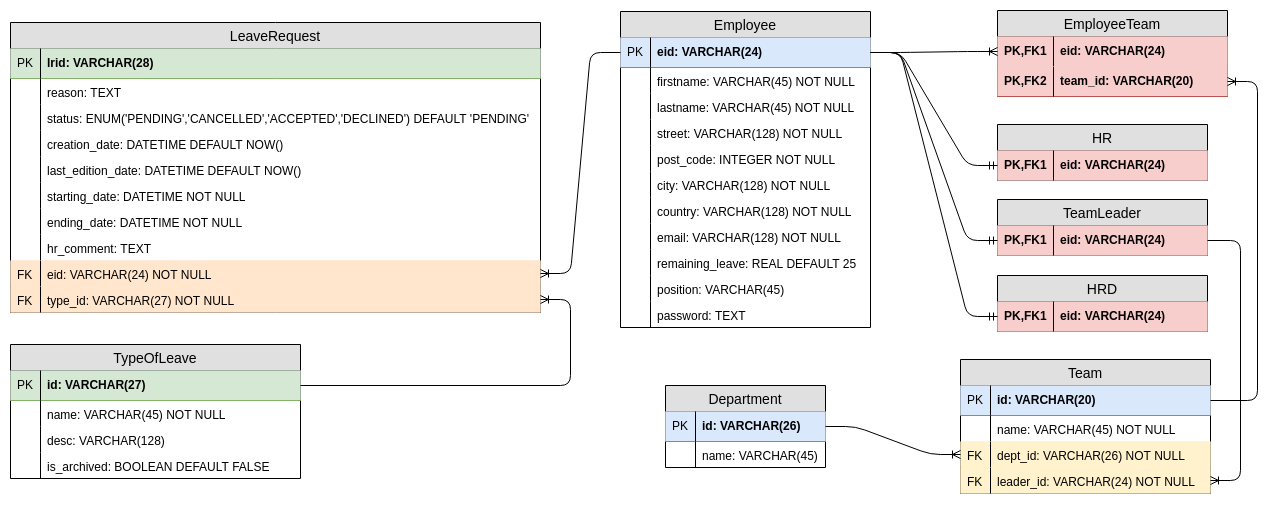
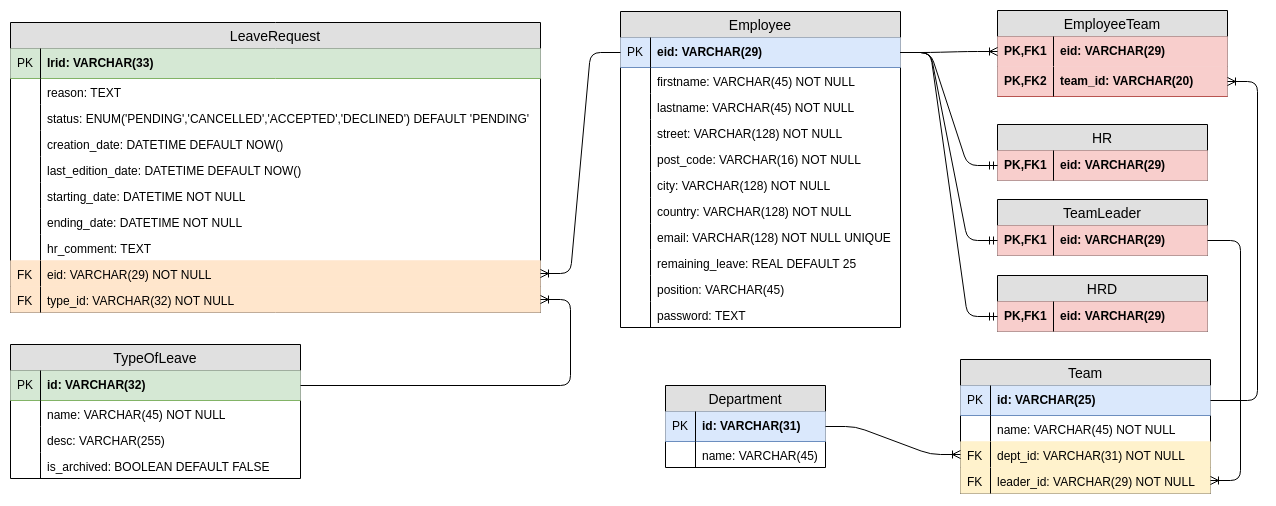
database schema and script update

diff --git a/doc/database.md b/doc/database.md
@@ -4,29 +4,29 @@
 ### LeaveRequest
 
     name: lrid
-    format: LEAVEREQUEST-<timestamp>
-    example: LEAVEREQUEST-1573120598.3263
+    format: LEAVEREQUEST-<timestamp>-<random()*10000>
+    example: LEAVEREQUEST-157314099170606-1920
 
 ### TypeOfLeave
 
     name: id
-    format: TYPEOFLEAVE-<timestamp>
-    example: TYPEOFLEAVE-1573120598.3263
+    format: TYPEOFLEAVE-<timestamp>-<random()*10000>
+    example: TYPEOFLEAVE-157314099170606-1920
     
 ### Employee
 
     name: eid
-    format: EMPLOYEE-<timestamp>
-    example: EMPLOYEE-1573120598.3263
+    format: EMPLOYEE-<timestamp>-<random()*10000>
+    example: EMPLOYEE-157314099170606-1920
     
 ### Team
 
     name: id
-    format: TEAM-<timestamp>
-    example: TEAM-1573120598.3263
+    format: TEAM-<timestamp>-<random()*10000>
+    example: TEAM-157314099170606-1920
     
 ### Department
 
     name: id
-    format: DEPARTMENT-<timestamp>
-    example: DEPARTMENT-1573120598.3263
+    format: DEPARTMENT-<timestamp>-<random()*10000>
+    example: DEPARTMENT-157314099170606-1920
